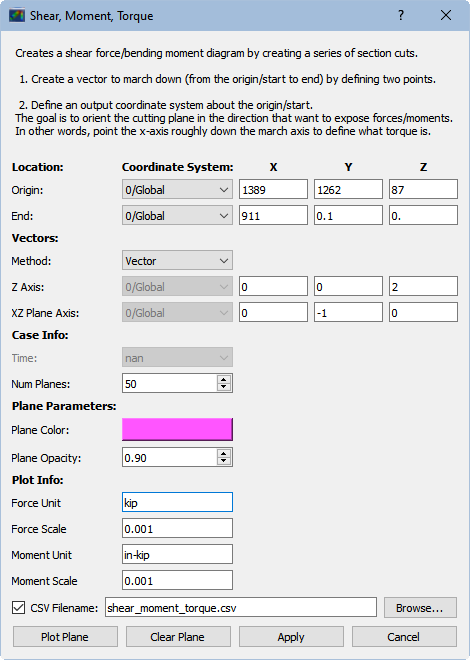
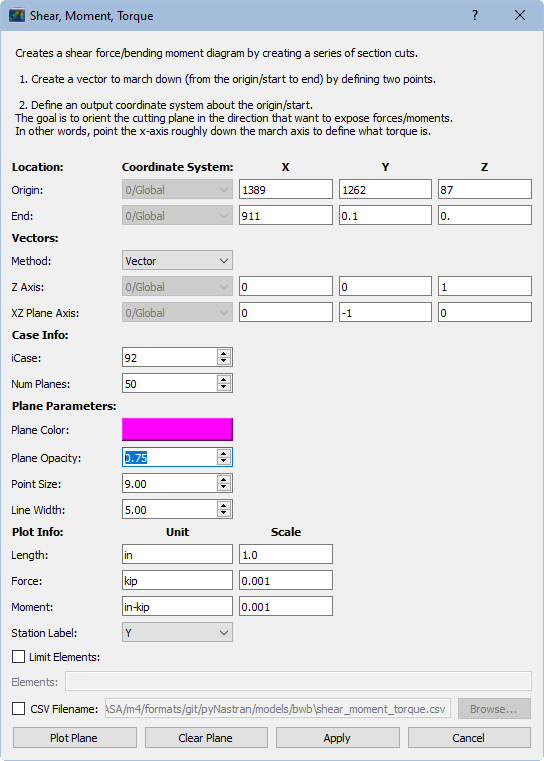
updating pics

Changed region(s): [[0.0, 0.0, 1.0, 1.0], [0.5957, 0.7273, 0.6255, 0.7879]]

diff --git a/docs/html_docs/quick_start/gui.rst b/docs/html_docs/quick_start/gui.rst
@@ -13,7 +13,6 @@ Versioning Note
 ---------------
 The GUI download is typically newer than the latest release version.
 
-========
 Overview
 ========
 
@@ -28,9 +27,9 @@ Since the initial development, the GUI has become significantly more capable
 by adding features such as displacements and forces, so the need for a code like
 Patran has decreased, but will not be eliminated.
 
-************
+
 Introduction
-************
+============
 
 The Graphical User Interface (GUI) looks like:
 
@@ -368,13 +367,15 @@ The goal here is to define the cutting plane where the section cut will be.  Not
 
 .. image:: ../../../pyNastran/gui/images/grid_point_forces2_menu.png
 
-You can test the cutting plane by pressing ``Plot Plane``:
+You can test the cutting plane by pressing ``Plot Plane``.  The points indicate where the loads will be computed, while the plane indicates the cut that will be done.
 
 .. image:: ../../../pyNastran/gui/images/grid_point_forces3_plane.png
 
-Once you're happy with the coordinate system and the plane press ``Apply`` to generate a series of plots:
+Once you're happy with the coordinate system and the plane press ``Apply`` to generate some force/moment plots.  Use ``Station Label`` to set the x-axis.
 
-.. image:: ../../../pyNastran/gui/images/grid_point_forces4_plot.png
+.. image:: ../../../pyNastran/gui/images/grid_point_forces5_force.png
+
+.. image:: ../../../pyNastran/gui/images/grid_point_forces4_moment.png
 
 Note that the ``i Station`` of the plot corresponds to the distance along the vector, so it is **not** what is seen in https://github.com/SteveDoyle2/pyNastran/blob/main/models/bwb/shear_moment_torque.ipynb
 
@@ -702,7 +703,7 @@ You can also define groups in your BDF:
     $ group: name="ULFuseCanardAtch MainFuseStruct Fixed point constraints, 123"; spcs=3
     SPC1           3  123         13
 
-Node groups will show up in the EditGeometryProperties menu, while element groups will show up in the Groups menu.  Other group types are not supported in the gui.
+Node groups will show up in the ``EditGeometryProperties`` menu, while element groups will show up in the Groups menu.  Other group types are not supported in the gui.
 
 ============
 Camera Views
